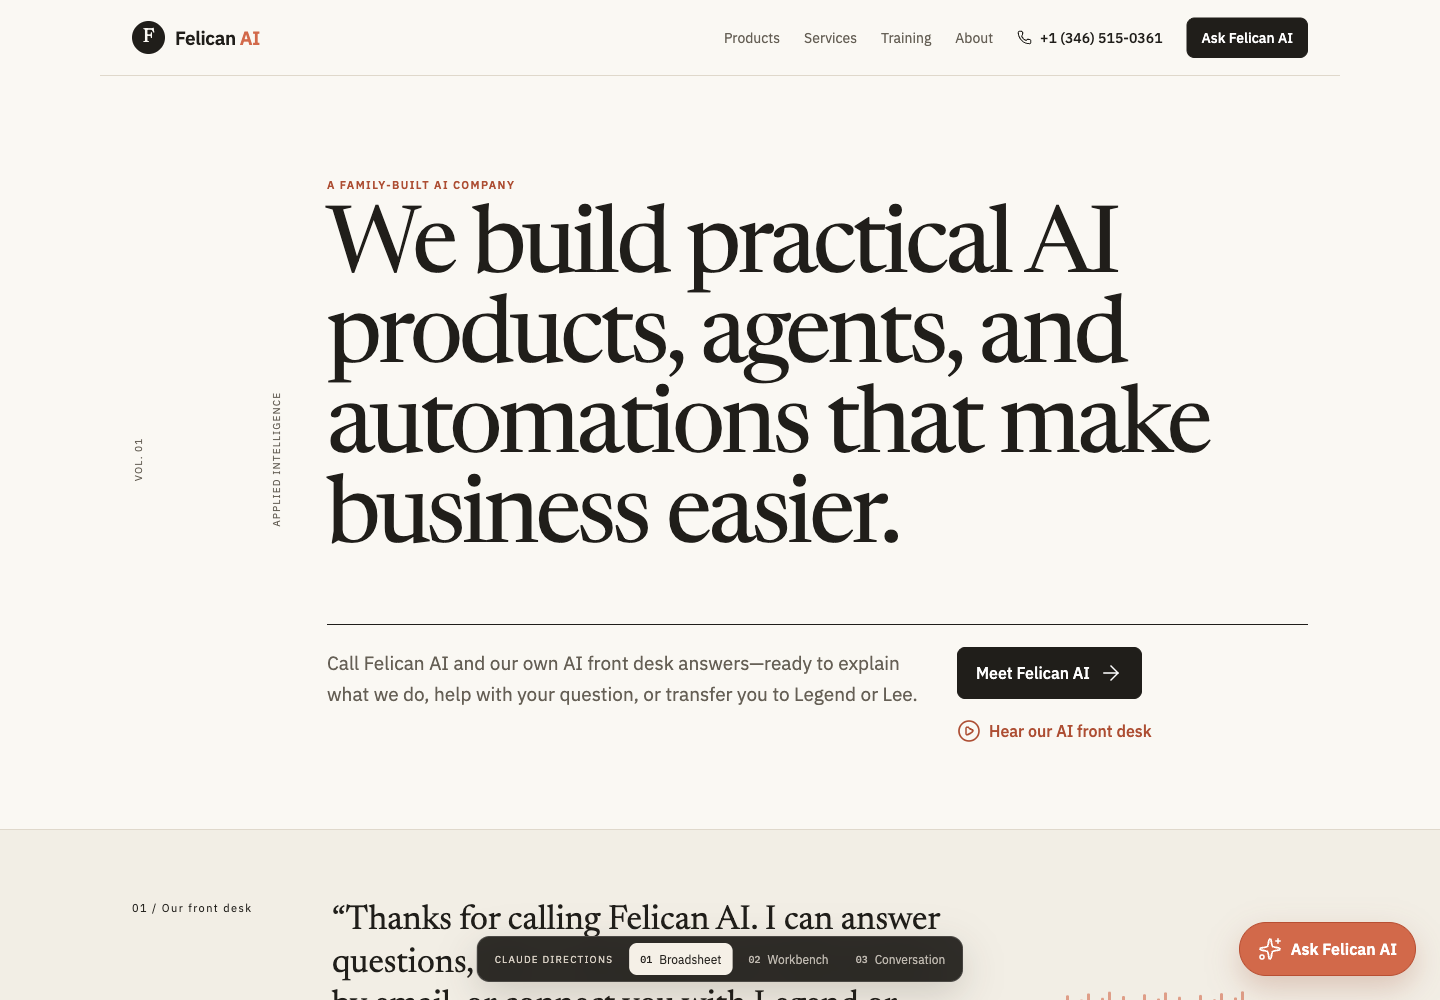
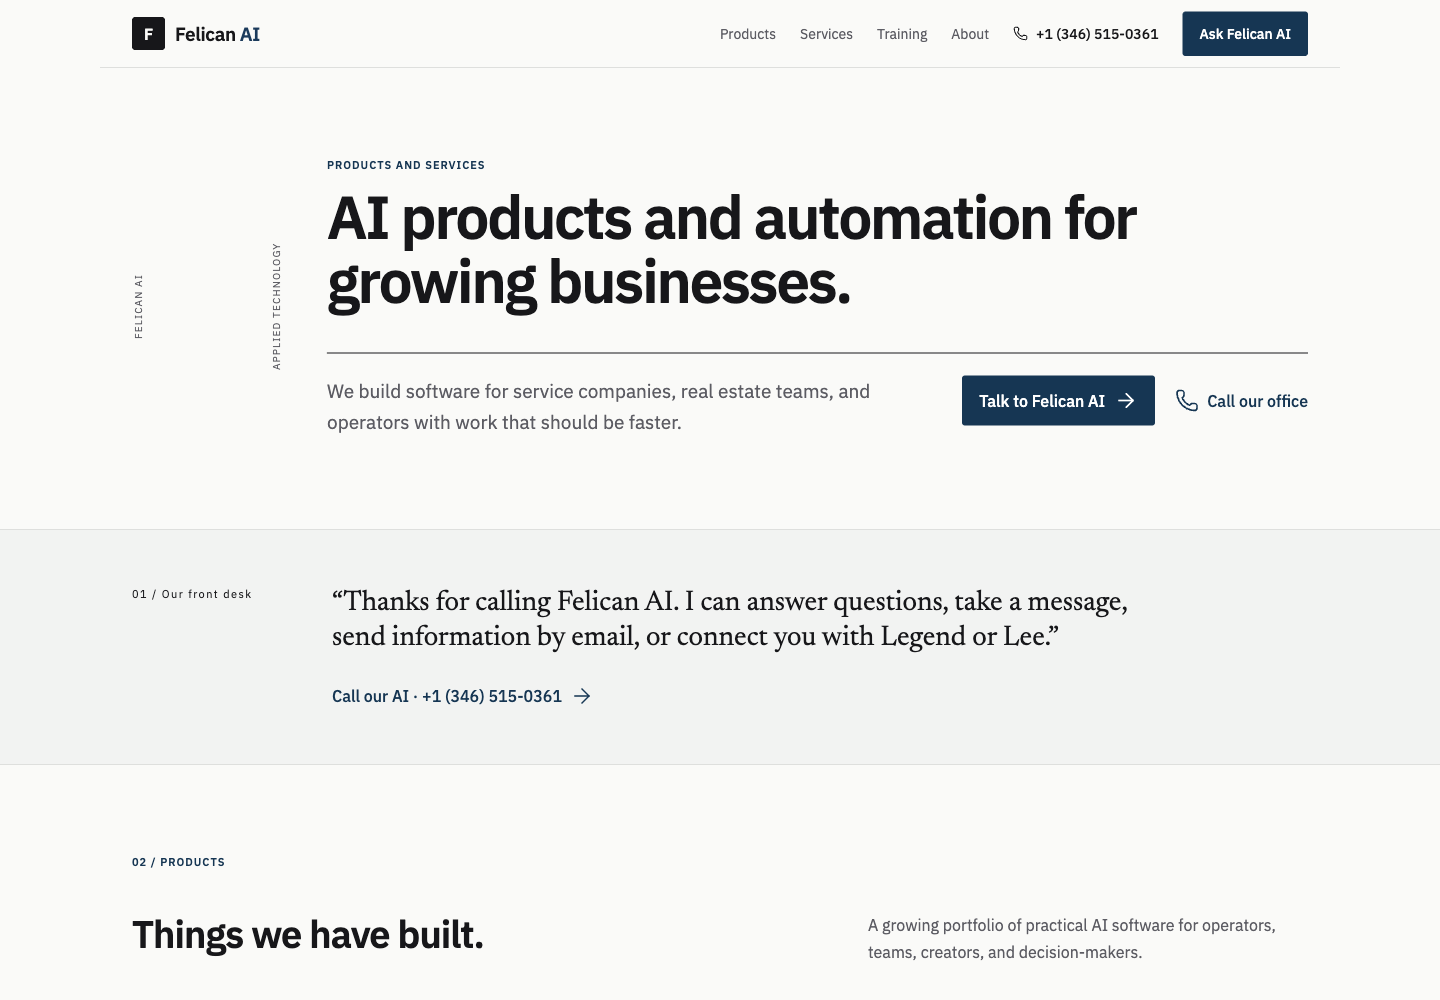
refactor: remove generated-site visual patterns

diff --git a/src/main.jsx b/src/main.jsx
@@ -8,6 +8,7 @@ import {
 } from 'lucide-react';
 import './styles.css';
 import './corrections.css';
+import './human.css';
 
 const PHONE_DISPLAY = '+1 (346) 515-0361';
 const PHONE_LINK = 'tel:+13465150361';
@@ -148,7 +149,7 @@ function Footer({ onCall, onChat }) {
 
 function Broadsheet({ onCall, onChat }) {
   return <div className="concept broadsheet" id="top"><Nav onCall={onCall} onChat={onChat}/><main>
-    <section className="b-hero"><aside><span>Vol. 01</span><span>Applied intelligence</span></aside><div><p className="eyebrow">A family-built AI company</p><h1>We build practical AI products, agents, and automations that make business easier.</h1><div className="hero-foot"><p>Call Felican AI and our own AI front desk answers—ready to explain what we do, help with your question, or transfer you to Legend or Lee.</p><div><button className="button" onClick={onChat}>Meet Felican AI <ArrowRight/></button><button className="arrow-link" onClick={onCall}><CirclePlay/> Hear our AI front desk</button></div></div></div></section>
+    <section className="b-hero"><aside><span>Felican AI</span><span>Applied technology</span></aside><div><p className="eyebrow">Products and services</p><h1>AI products and automation for growing businesses.</h1><div className="hero-foot"><p>We build software for service companies, real estate teams, and operators with work that should be faster.</p><div><button className="button" onClick={onChat}>Talk to Felican AI <ArrowRight/></button><button className="arrow-link" onClick={onCall}><Phone/> Call our office</button></div></div></div></section>
     <section className="editorial-callout"><span>01 / Our front desk</span><div><p className="quote">“Thanks for calling Felican AI. I can answer questions, take a message, send information by email, or connect you with Legend or Lee.”</p><button className="arrow-link" onClick={onCall}>Call our AI · {PHONE_DISPLAY} <ArrowRight/></button></div><div className="waveform">{Array.from({length:28}).map((_,i)=><i style={{height:`${18 + (i*17)%46}px`}} key={i}/>)}</div></section>
     <section className="indexed-section" id="products"><header><p className="eyebrow">02 / Products</p><h2>Things we have built.</h2><p>A growing portfolio of practical AI software for operators, teams, creators, and decision-makers.</p></header><ProductIndex/></section>
     <section className="service-table" id="services"><header><p className="eyebrow">03 / Services</p><h2>From idea to working system.</h2></header><div>{services.map((s,i)=><article key={s.name}><span>{String(i+1).padStart(2,'0')}</span><s.icon/><h3>{s.name}</h3><p>{s.description}</p><ArrowRight/></article>)}</div></section>
@@ -157,15 +158,15 @@ function Broadsheet({ onCall, onChat }) {
 }
 
 function PhoneWidget({ onCall }) {
-  return <div className="live-phone-widget"><header><span><i/> Felican AI voice</span><span>00:18</span></header><div className="caller-row"><span className="avatar">JB</span><div><small>James · inbound call</small><p>“Can it connect to our CRM?”</p></div></div><div className="assistant-row"><Sparkles/><p>Yes. We can connect the assistant to approved CRM data and your team’s handoff workflow.</p></div><div className="booking-row"><Check/><span>Discovery call offered</span><button onClick={onCall}>Try it</button></div></div>;
+  return <div className="live-phone-widget contact-card"><header><span>When you call Felican AI</span><span>{PHONE_DISPLAY}</span></header><h2>Our AI receptionist answers first.</h2><ul><li><Check/>Answers questions about the company</li><li><Check/>Explains products, services, and training</li><li><Check/>Transfers callers to Legend or Lee</li><li><Check/>Sends messages and email follow-ups</li></ul><button className="text-button" onClick={onCall}><Phone/> See the call flow <ArrowRight/></button></div>;
 }
 
 function Workbench({ onCall, onChat }) {
   const [filter, setFilter] = useState('All');
   const filtered = useMemo(() => filter === 'All' ? products : products.filter(p=>p.category===filter), [filter]);
   return <div className="concept workbench" id="top"><Nav onCall={onCall} onChat={onChat}/><main>
-    <section className="w-hero"><div><span className="mono-label">// BUILT FOR REAL WORK</span><h1>AI that clocks in.</h1><p>Explore a workbench of products, agents, and automations built to answer, organize, create, and move the business forward.</p><div><button className="button" onClick={onChat}>Start with Felican AI <ArrowRight/></button><button className="button button-outline" onClick={onCall}><Play/> See it answer a call</button></div><small><i/> Practical systems · human handoff · ongoing support</small></div><PhoneWidget onCall={onCall}/></section>
-    <section className="demo-shelf"><article onClick={onCall}><div className="tile-top"><Phone/><span className="mono-label">OUR FRONT DESK / 24×7</span></div><h2>Call Felican AI</h2><p>Our AI answers the company line, helps the caller, transfers to Legend or Lee, and sends the right email follow-up.</p><div className="mini-wave">{Array.from({length:18}).map((_,i)=><i style={{height:`${8 + (i*13)%28}px`}} key={i}/>)}</div></article><article onClick={onChat}><div className="tile-top"><MessageCircle/><span className="mono-label">PRODUCT / WEB</span></div><h2>Felican AI Chat</h2><p>Our customer-facing website assistant—and a product we can tailor for other businesses.</p><div className="typing-demo"><span>What can you automate?</span><span>Intake, follow-up, reporting…</span></div></article></section>
+    <section className="w-hero"><div><span className="mono-label">FELICAN AI</span><h1>AI systems for real business work.</h1><p>We build and maintain software for service companies, real estate teams, and growing businesses.</p><div><button className="button" onClick={onChat}>Ask about our work <ArrowRight/></button><button className="button button-outline" onClick={onCall}><Phone/> Call {PHONE_DISPLAY}</button></div><small>Products, implementation, and team training</small></div><PhoneWidget onCall={onCall}/></section>
+    <section className="demo-shelf"><article onClick={onCall}><div className="tile-top"><Phone/><span className="mono-label">COMPANY CONTACT</span></div><h2>Call Felican AI</h2><p>Our AI answers the company line, helps the caller, transfers to Legend or Lee, and sends the right email follow-up.</p><button className="arrow-link">How the call is handled <ArrowRight/></button></article><article onClick={onChat}><div className="tile-top"><MessageCircle/><span className="mono-label">FELICAN PRODUCT</span></div><h2>Website Assistant</h2><p>A business-trained assistant for answering visitor questions, recommending the right service, and capturing qualified inquiries.</p><button className="arrow-link">Open the assistant <ArrowRight/></button></article></section>
     <section className="product-grid-section" id="products"><header><div><p className="mono-label">// PRODUCTS</p><h2>A portfolio you can explore.</h2></div><div className="filter-pills">{['All','AI workspace','Business ops','Creative tools','Developer tools'].map(f=><button className={filter===f?'active':''} onClick={()=>setFilter(f)} key={f}>{f}</button>)}</div></header><div className="product-grid">{filtered.map(p=><article key={p.name}><div><ProductMark product={p}/><span className="live-status"><i/> {p.status}</span></div><h3>{p.name}</h3><p>{p.description}</p><footer><span>{p.category}</span><ArrowRight/></footer></article>)}</div></section>
     <section className="service-grid-section" id="services"><header><p className="mono-label">// SERVICES</p><h2>One team from discovery through optimization.</h2></header><div>{services.map((s,i)=><article key={s.name}><span className="mono-label">0{i+1}</span><s.icon/><h3>{s.name}</h3><p>{s.description}</p><button>Scope a project <ArrowRight/></button></article>)}</div></section>
     <TrainingBooks/><AboutBand/><FAQ/>
@@ -180,7 +181,7 @@ const conversationMoments = [
 
 function Conversation({ onCall, onChat }) {
   return <div className="concept conversation" id="top"><div className="scroll-progress"/><Nav onCall={onCall} onChat={onChat}/><main>
-    <section className="c-hero"><p className="eyebrow">Call the Felican AI front desk</p><h1>Our AI answers.</h1><p className="lede">Ask about our company, products, services, or training—or have it connect you with us.</p><button className="audio-player" onClick={onCall}><span><Play/></span><div className="audio-wave">{Array.from({length:42}).map((_,i)=><i style={{height:`${9 + (i*19)%42}px`}} key={i}/>)}</div><time>0:20</time></button><div className="transcript-preview"><p><b>Felican AI</b></p><p>“I can help with that, transfer you to Legend or Lee, or send the details by email.”</p></div><button className="arrow-link" onClick={onCall}>Call our AI · {PHONE_DISPLAY} <ArrowRight/></button></section>
+    <section className="c-hero"><p className="eyebrow">Felican AI company line</p><h1>Call Felican AI.</h1><p className="lede">Our AI receptionist can answer questions about the company or connect you with Legend or Lee.</p><button className="call-company" onClick={onCall}><span><Phone/></span><div><b>{PHONE_DISPLAY}</b><small>Ask a question, leave a message, or request a transfer</small></div><ArrowRight/></button></section>
     <section className="story-intro"><p>Every useful system starts with a real conversation: what is happening now, what keeps getting stuck, and what should feel easier on the other side.</p></section>
     <section className="conversation-moments">{conversationMoments.map((m,i)=><article key={m.overline} className={i%2?'reverse':''}><p className="eyebrow">{String(i+1).padStart(2,'0')} · {m.overline}</p><div className="exchange"><p className="ask">{m.ask}</p><p className="reply"><Sparkles/>{m.reply}</p></div><div className="moment-copy"><h2>{m.title}</h2><p>{m.body}</p><button className="arrow-link">See how it works <ArrowRight/></button></div></article>)}</section>
     <section className="private-diagram"><div><p className="eyebrow">04 · BEHIND YOUR BOUNDARIES</p><h2>Private AI, designed around control.</h2><p>For sensitive teams and regulated workflows, Felican can design AI environments with clear access, approved knowledge, auditability, and controlled integrations.</p><button className="arrow-link">Explore private AI <ArrowRight/></button></div><div className="boundary"><span>Your environment</span><div><LockKeyhole/><b>Company knowledge</b><small>Approved documents · systems · permissions</small></div><div><BrainCircuit/><b>Felican AI layer</b><small>Models · agents · tools · governance</small></div></div></section>
@@ -191,11 +192,15 @@ function Conversation({ onCall, onChat }) {
 }
 
 export function App() {
-  const [design, setDesign] = useState('broadsheet');
+  const params = new URLSearchParams(window.location.search);
+  const requestedDesign = params.get('v');
+  const initialDesign = ['broadsheet', 'workbench', 'conversation'].includes(requestedDesign) ? requestedDesign : 'workbench';
+  const reviewMode = params.get('review') === '1';
+  const [design, setDesign] = useState(initialDesign);
   const [phone, setPhone] = useState(false);
   const [chat, setChat] = useState(false);
   const shared = { onCall: () => setPhone(true), onChat: () => setChat(true) };
-  return <><DesignSwitcher design={design} setDesign={setDesign}/>{design === 'broadsheet' && <Broadsheet {...shared}/>} {design === 'workbench' && <Workbench {...shared}/>} {design === 'conversation' && <Conversation {...shared}/>} {phone && <PhoneDemo onClose={()=>setPhone(false)}/>} {chat && <ChatAssistant onClose={()=>setChat(false)}/>}</>;
+  return <>{reviewMode && <DesignSwitcher design={design} setDesign={setDesign}/>} {design === 'broadsheet' && <Broadsheet {...shared}/>} {design === 'workbench' && <Workbench {...shared}/>} {design === 'conversation' && <Conversation {...shared}/>} {phone && <PhoneDemo onClose={()=>setPhone(false)}/>} {chat && <ChatAssistant onClose={()=>setChat(false)}/>}</>;
 }
 
 const rootElement = document.getElementById('root');

diff --git a/src/human.css b/src/human.css
@@ -1,0 +1,110 @@
+/* Humanized visual pass: restrained hierarchy, conventional business layout. */
+:root {
+  --paper: #fafaf8;
+  --paper-2: #f2f3f2;
+  --ink: #17171a;
+  --muted: #5c5c63;
+  --rule: #dedfdd;
+  --coral: #1b3a5b;
+  --coral-dark: #163653;
+  --serif: 'Newsreader', Georgia, serif;
+  --sans: 'IBM Plex Sans', Arial, sans-serif;
+}
+
+body { background: var(--paper); }
+h1 { font-family: var(--sans) !important; font-size: clamp(40px, 4.5vw, 60px) !important; line-height: 1.06 !important; letter-spacing: -.035em !important; font-weight: 600 !important; }
+h2 { font-family: var(--sans) !important; font-size: clamp(28px, 3vw, 38px) !important; line-height: 1.15 !important; letter-spacing: -.025em !important; font-weight: 600 !important; }
+.product-grid h3, .product-index h3 { font-family: var(--sans); font-size: 19px; font-weight: 600; letter-spacing: -.01em; }
+.eyebrow, .mono-label { color: var(--coral-dark); letter-spacing: .09em; }
+
+.site-nav { height: 68px; background: var(--paper); }
+.workbench .site-nav { backdrop-filter: none; }
+.brand-mark { border-radius: 3px; font-family: var(--sans); font-weight: 600; font-size: 16px; }
+.button { border-radius: 3px; background: var(--coral-dark); border-color: var(--coral-dark); padding: 12px 16px; }
+.button:hover { transform: none; background: #102c45; }
+.button-outline { background: transparent; color: var(--ink); border-color: #bfc1bf; }
+
+.w-hero { padding-top: 88px; padding-bottom: 72px; gap: 70px; }
+.w-hero h1 { margin: 18px 0 24px; max-width: 620px; }
+.w-hero > div:first-child > p { font-size: 18px; max-width: 560px; }
+.w-hero small { font-size: 14px; }
+.live-phone-widget { border-radius: 4px; box-shadow: none; transform: none; }
+.contact-card { padding: 26px; }
+.contact-card h2 { font-size: 24px !important; margin: 26px 0 18px; }
+.contact-card ul { list-style: none; margin: 0 0 24px; padding: 0; }
+.contact-card li { display: flex; align-items: center; gap: 9px; padding: 9px 0; border-bottom: 1px solid var(--rule); font-size: 14px; }
+.contact-card li svg { width: 16px; color: var(--coral-dark); }
+.contact-card .text-button { color: var(--coral-dark); }
+.assistant-row { border-radius: 3px; background: #eef2f5; }
+.booking-row button { border-radius: 3px; }
+
+.demo-shelf { margin-bottom: 72px; }
+.demo-shelf article { border-radius: 4px; padding: 26px; }
+.demo-shelf article:before, .product-grid article:before { display: none; }
+.demo-shelf h2 { margin-top: 28px; font-family: var(--sans); font-size: 26px !important; }
+.demo-shelf .arrow-link { margin-top: 18px; }
+.mini-wave, .waveform, .audio-wave { display: none; }
+
+.product-grid-section { padding-top: 80px; padding-bottom: 80px; background: #f1f2f1; }
+.product-grid-section h2, .service-grid-section h2 { font-size: 36px !important; }
+.filter-pills button { border-radius: 3px; font-size: 12px; background: #fff; }
+.filter-pills button.active { background: var(--coral-dark); }
+.product-grid { grid-template-columns: repeat(3, 1fr); gap: 0; border-top: 1px solid var(--rule); border-left: 1px solid var(--rule); }
+.product-grid article { min-height: 230px; border-radius: 0; border: 0; border-right: 1px solid var(--rule); border-bottom: 1px solid var(--rule); padding: 24px; }
+.product-mark { border-radius: 3px; filter: saturate(.5); }
+
+.service-grid-section { padding-top: 88px; padding-bottom: 88px; }
+.service-grid-section > div { gap: 0; border-top: 1px solid var(--rule); }
+.service-grid-section article { min-height: 260px; border-radius: 0; border-width: 0 0 1px; padding: 28px 18px; }
+.service-grid-section article > svg { margin: 28px 0 16px; }
+
+.learning-split article, .workbench .learning-split article { border-radius: 0; padding: 44px; }
+.section-icon { border-radius: 3px; margin-bottom: 30px; }
+.books-card { background: #f1f2f1; }
+.book-spines { display: none; }
+.about-band { padding-top: 88px; padding-bottom: 88px; }
+.faq-section { margin-top: 88px; margin-bottom: 88px; }
+.footer-cta { padding-top: 88px; padding-bottom: 88px; }
+
+.floating-chat { display: none; }
+.phone-modal, .chat-panel { border-radius: 4px; box-shadow: 0 12px 35px rgba(20, 24, 28, .16); }
+.phone-orb, .chat-panel form button, .online-dot { border-radius: 3px; }
+.call-transcript, .call-outcomes span, .chat-messages p, .chat-chips button { border-radius: 3px; }
+
+.b-hero { padding-top: 88px; padding-bottom: 72px; }
+.b-hero h1 { max-width: 850px; margin-bottom: 40px; }
+.editorial-callout { padding-top: 56px; padding-bottom: 56px; grid-template-columns: 160px 1fr; }
+.editorial-callout .quote { font-size: 28px; max-width: 800px; }
+.indexed-section, .service-table { padding-top: 88px; padding-bottom: 88px; }
+
+.c-hero { text-align: left; padding: 96px max(24px, calc((100vw - 920px)/2)); background: #f1f2f1; }
+.c-hero h1 { margin-bottom: 20px; }
+.c-hero .lede { max-width: 680px; font-family: var(--sans); font-size: 18px; }
+.call-company { width: min(620px, 100%); margin-top: 36px; border: 1px solid #bfc1bf; background: #fff; padding: 16px; display: grid; grid-template-columns: 42px 1fr 22px; gap: 14px; align-items: center; text-align: left; }
+.call-company > span { display: grid; place-items: center; width: 42px; height: 42px; background: var(--coral-dark); color: #fff; }
+.call-company div { display: flex; flex-direction: column; gap: 3px; }
+.call-company small { color: var(--muted); }
+.story-intro { padding-top: 88px; padding-bottom: 88px; }
+.story-intro p { font-size: 30px; text-align: left; }
+.conversation-moments article { margin-bottom: 96px; }
+.exchange p { border-radius: 4px; }
+.exchange .reply { background: #e8eef3; }
+
+.design-switcher { top: 78px; bottom: auto; border-radius: 3px; box-shadow: none; background: #17171a; }
+.design-switcher button { border-radius: 2px; }
+
+* { scroll-behavior: auto; }
+.button, .product-index article, .demo-shelf article { transition: color 120ms ease-out, background 120ms ease-out, border-color 120ms ease-out; }
+
+@media (max-width: 900px) {
+  .product-grid { grid-template-columns: repeat(2, 1fr); }
+  .w-hero { padding-top: 64px; }
+  .c-hero { padding-top: 72px; padding-bottom: 72px; }
+}
+
+@media (max-width: 560px) {
+  h1 { font-size: 40px !important; }
+  .product-grid { grid-template-columns: 1fr; }
+  .call-company { grid-template-columns: 38px 1fr 18px; }
+  .call-company small { font-size: 11px; }
+}

diff --git a/src/App.test.jsx b/src/App.test.jsx
@@ -1,34 +1,37 @@
 import React from 'react';
 import { cleanup, fireEvent, render, screen } from '@testing-library/react';
-import { afterEach, describe, expect, it } from 'vitest';
+import { afterEach, beforeEach, describe, expect, it } from 'vitest';
 import { App } from './main.jsx';
 
-afterEach(cleanup);
+beforeEach(() => window.history.replaceState({}, '', '/'));
+afterEach(() => { cleanup(); window.history.replaceState({}, '', '/'); });
 
 describe('Felican AI concept site', () => {
-  it('renders the default Broadsheet concept', () => {
+  it('renders the straightforward Workbench concept by default', () => {
     render(<App />);
-    expect(screen.getByText(/We build practical AI products/i)).toBeInTheDocument();
+    expect(screen.getByText(/AI systems for real business work/i)).toBeInTheDocument();
     expect(screen.getByText('Relay')).toBeInTheDocument();
+    expect(screen.queryByText('Claude directions')).not.toBeInTheDocument();
   });
 
   it('positions the company phone AI as Felican’s front desk', () => {
     render(<App />);
-    fireEvent.click(screen.getByText(/Hear our AI front desk/i));
+    fireEvent.click(screen.getByRole('button', { name: /See the call flow/i }));
     expect(screen.getByText(/Our AI answers first/i)).toBeInTheDocument();
     expect(screen.getByText(/Transfer the caller/i)).toBeInTheDocument();
     expect(screen.getByText(/Email the details/i)).toBeInTheDocument();
   });
 
   it('switches to the Workbench concept', () => {
+    window.history.replaceState({}, '', '/?review=1&v=broadsheet');
     render(<App />);
     fireEvent.click(screen.getByText('Workbench'));
-    expect(screen.getByText('AI that clocks in.')).toBeInTheDocument();
+    expect(screen.getByText('AI systems for real business work.')).toBeInTheDocument();
   });
 
   it('opens the website assistant and answers a product question', () => {
     render(<App />);
-    fireEvent.click(screen.getAllByText('Ask Felican AI')[0]);
+    fireEvent.click(screen.getByText('Ask about our work'));
     fireEvent.click(screen.getByText('What do you build?'));
     expect(screen.getByText(/We build agents and automations/i)).toBeInTheDocument();
   });
